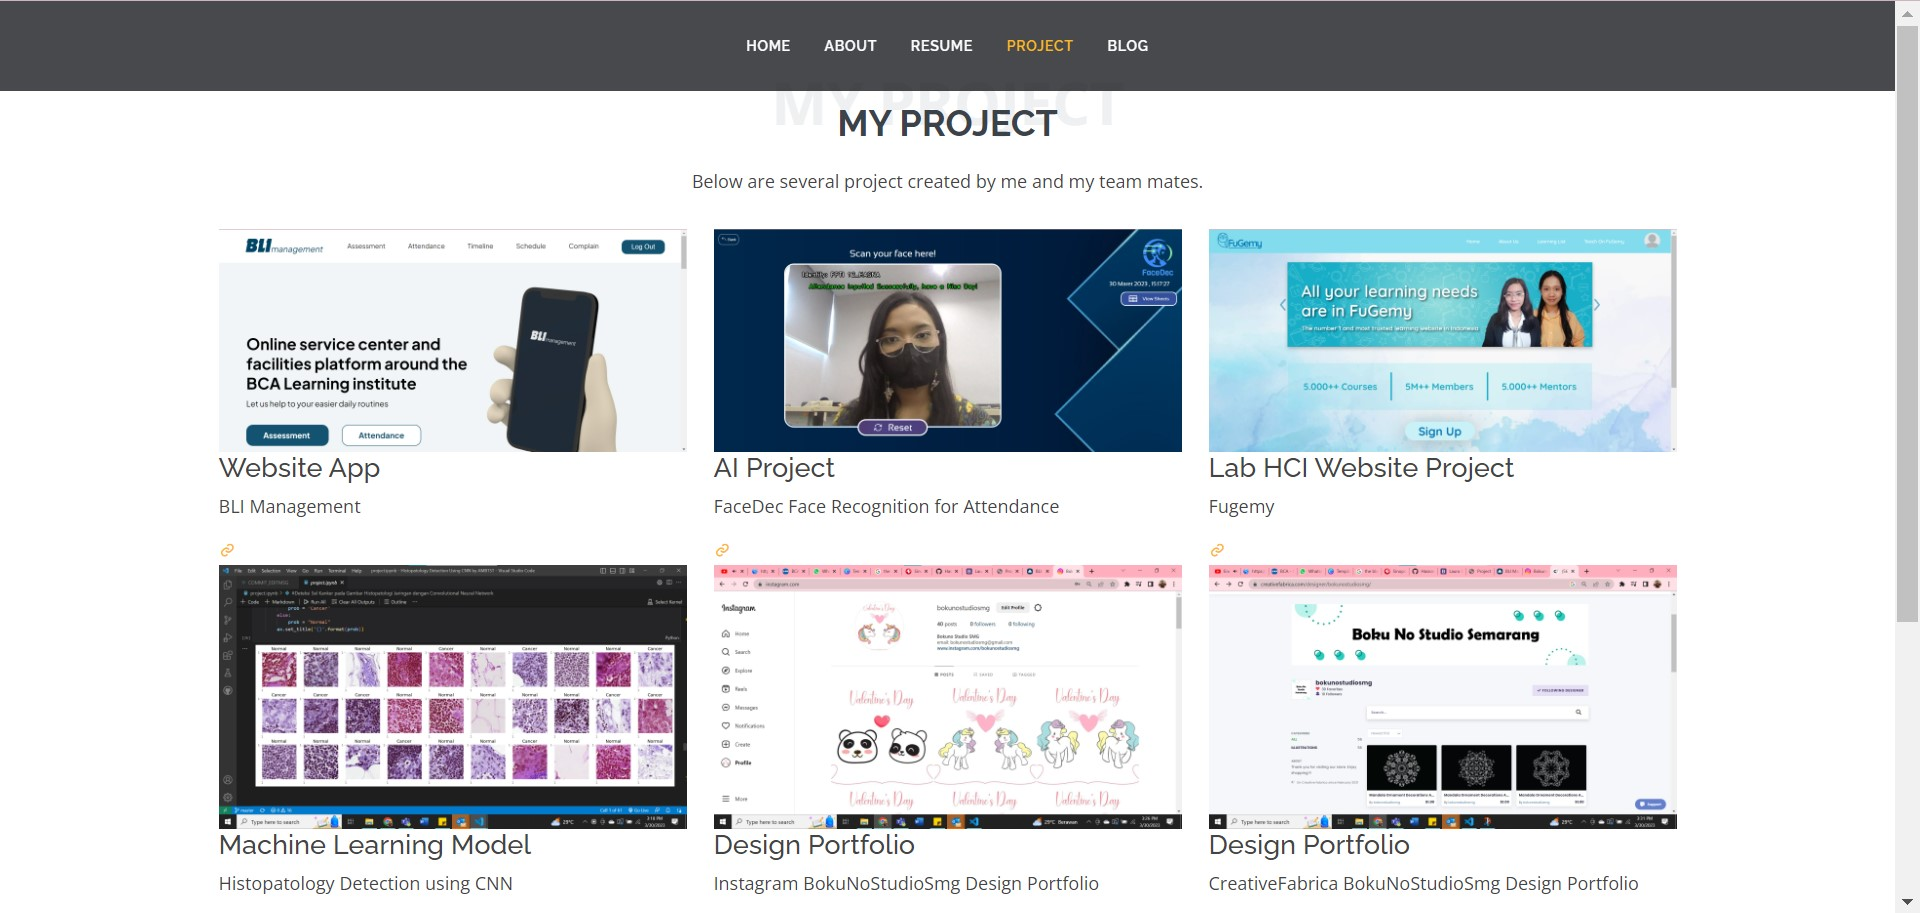
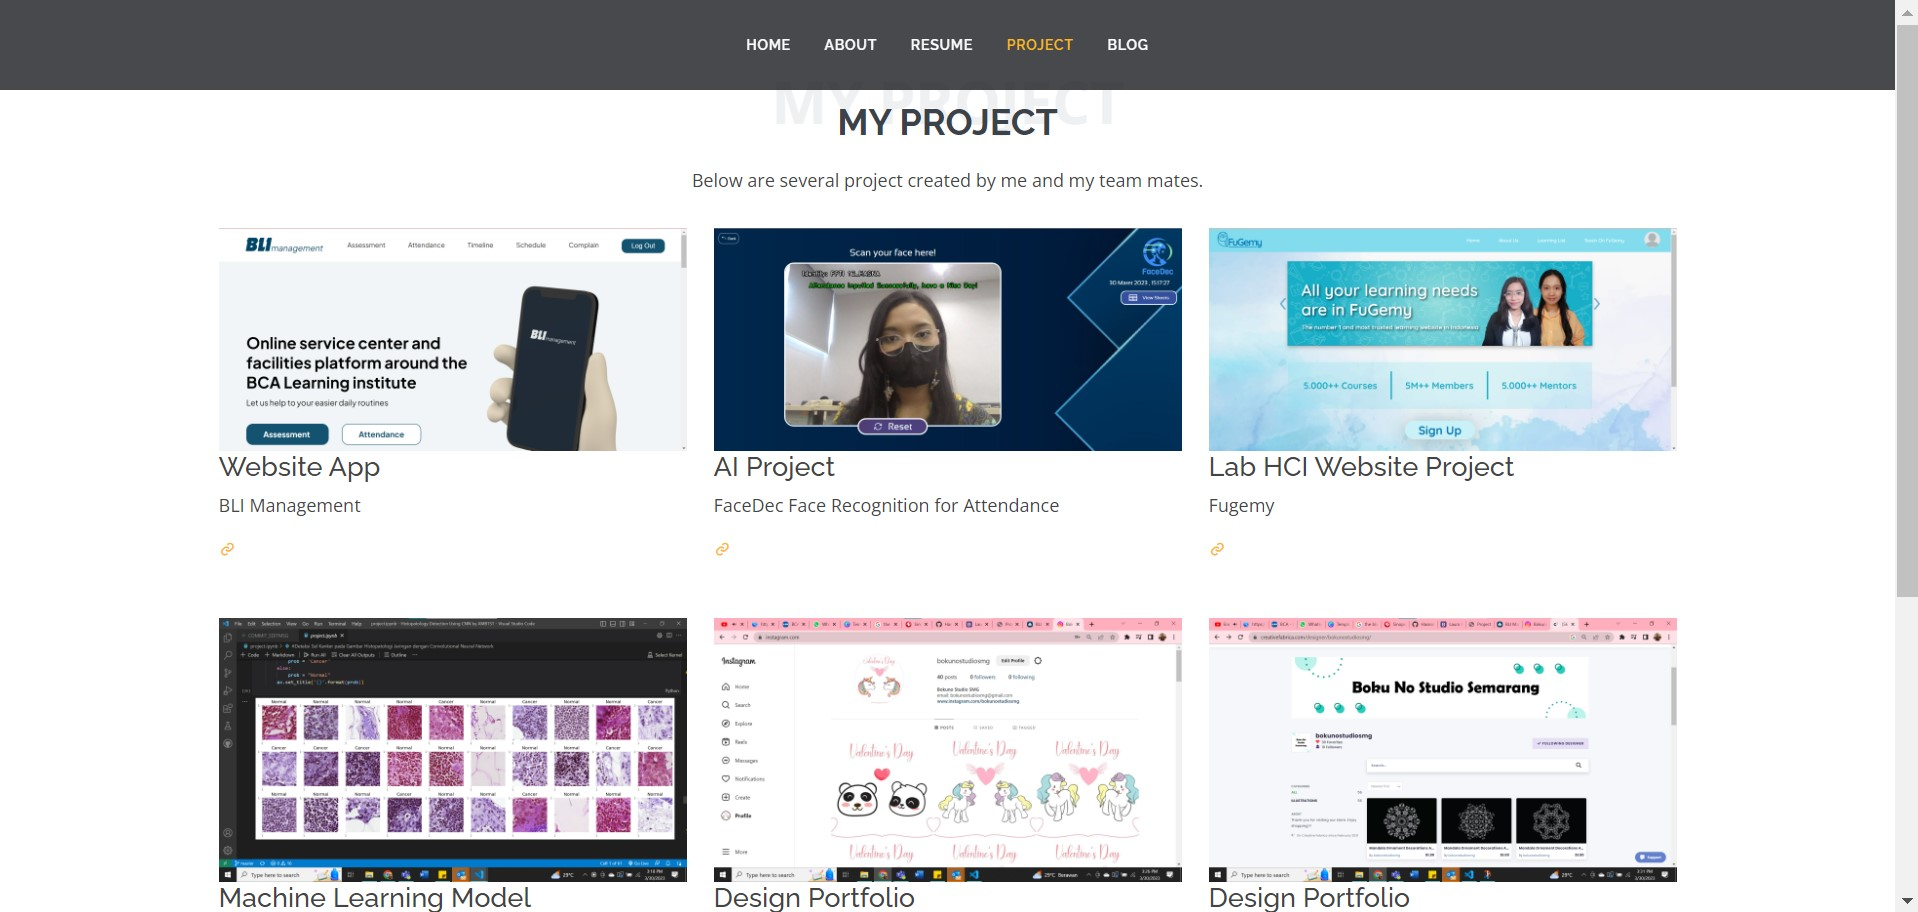
projs

diff --git a/resources/views/project.blade.php b/resources/views/project.blade.php
@@ -61,7 +61,6 @@
               </div>
             </div>
 
-
             <div class="col-lg-4 col-md-6 project-item filter-app">
                 <div class="project-img"><img src="img/facedec.jpg" class="img-fluid" alt=""></div>
                 <div class="project-info">
@@ -79,6 +78,9 @@
                   <a href="https://github.com/HasnaChan/Chrystalia-Hasna" ><i class="bx bx-link"></i></a>
                 </div>
               </div>
+
+              <div class="mt-5"></div>
+
 
               <div class="col-lg-4 col-md-6 project-item filter-app">
                 <div class="project-img"><img src="img/histopatologi.jpg" class="img-fluid" alt=""></div>
